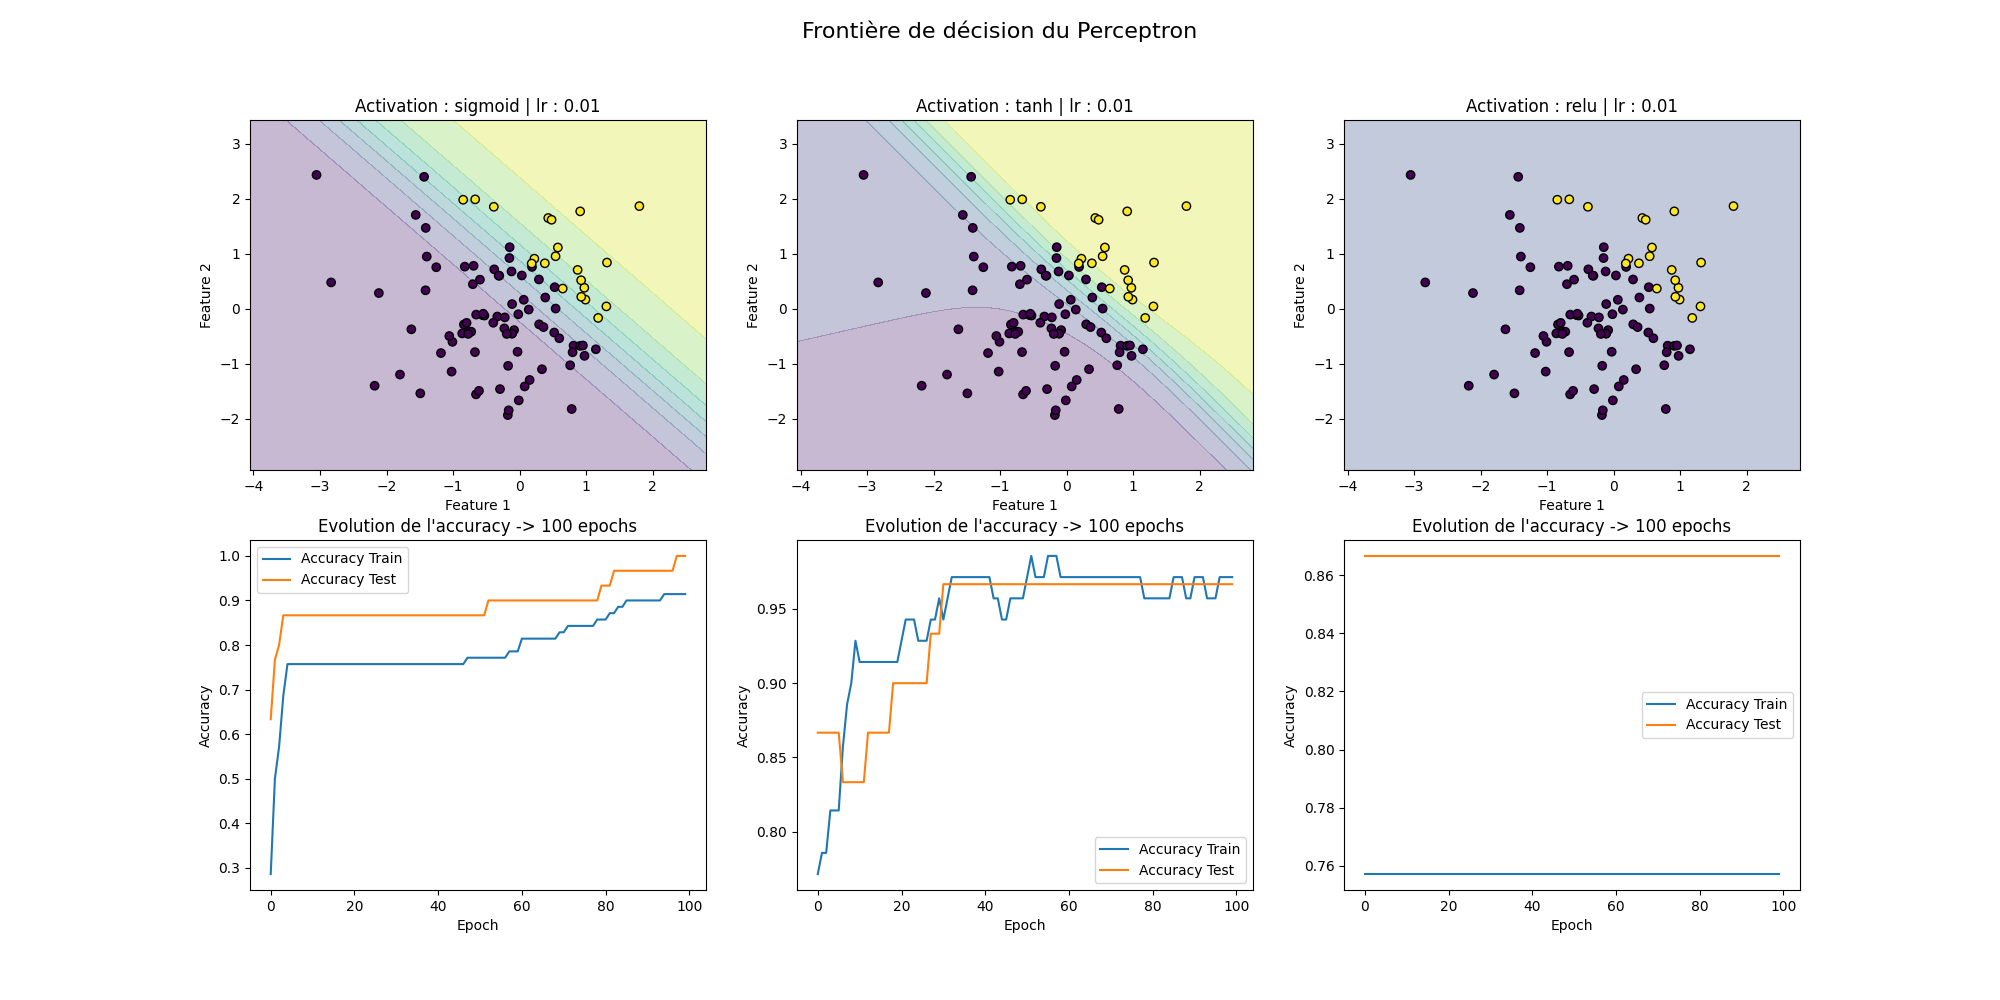
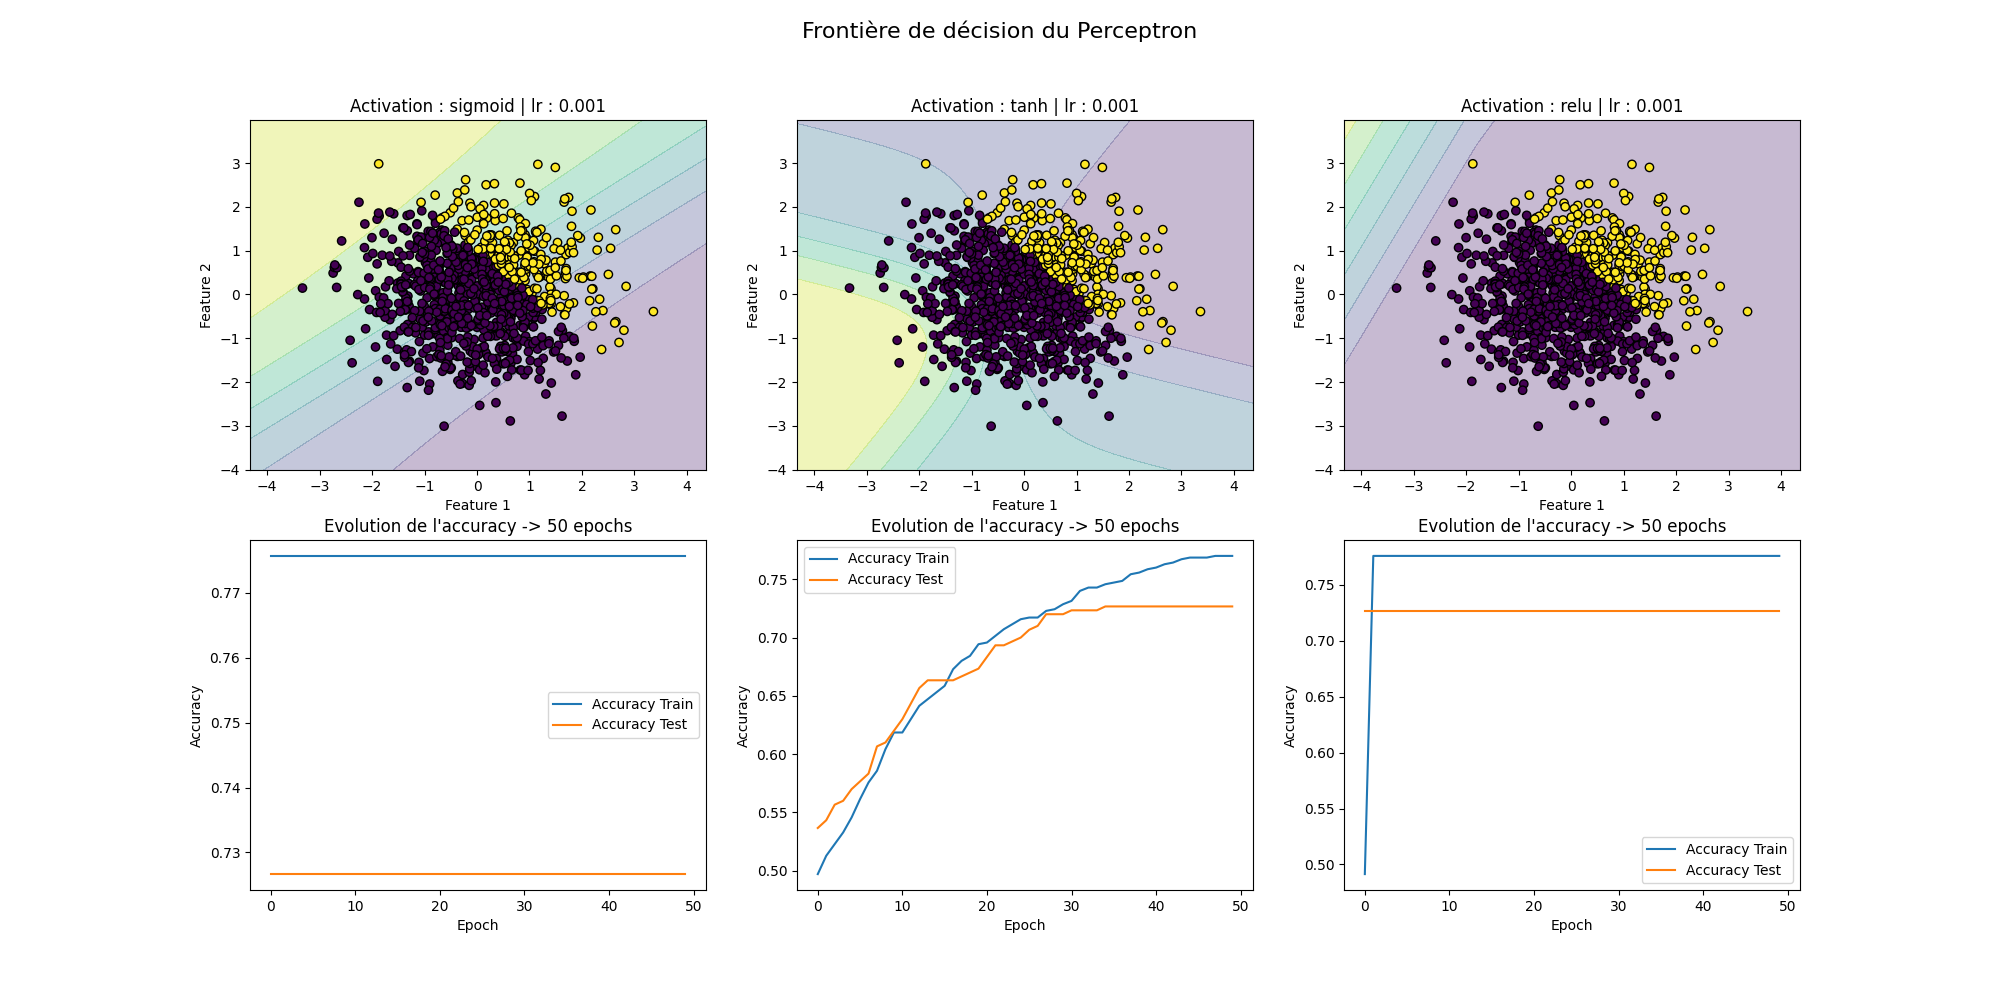
SGD

diff --git a/rendu_6/app.py b/rendu_6/app.py
@@ -8,78 +8,35 @@ from sklearn.model_selection import train_test_split
 import tensorflow as tf
 from tensorflow.keras.layers import Dense
 from tensorflow.keras.models import Sequential
-from tensorflow.keras.optimizers import Adam
+from tensorflow.keras.optimizers import SGD
 
 
 
 
 
-X = np.random.randn(100, 2)
+X = np.random.randn(1000, 2)
 y = np.where(X[:, 1] + X[:, 0] > 1, 1, 0)
 #scaler = StandardScaler()
 #X = scaler.fit_transform(X)
-epochs = 500
-alpha = 0.01
 
-activations = ["step", "sigmoid", "tanh", "relu"]
+activations = ["sigmoid", "tanh", "relu"]
 x_train, x_test, y_train, y_test = train_test_split(X, y, test_size=0.3, random_state=42)
 
 p_seul = per.Perceptron()
 
-fig, axs = plt.subplots(ncols=4, nrows=2, figsize=(20, 10))
-axs = axs.flatten()
-index = 0
-# Perceptron seul
-for a in activations:
-
-    accuracies, test_accuracies = p_seul.fit(x_train, y_train, epochs=epochs, activation=a, alpha=alpha, x_test=x_test, y_test=y_test)
-
-    w1, w2 = p_seul.W
-    b = p_seul.B
-
-    # Affichage graphe Frontiere de decision
-    x1_vals = np.array([X[:, 0].min() - 0.5, X[:, 0].max() + 0.5])
-    x2_vals = -(b + w1 * x1_vals) / w2
-
-    axs[index].scatter(X[y == 0, 0], X[y == 0, 1], color='blue', edgecolor='k', marker='o', s=50, label='Label 0')
-    axs[index].scatter(X[y == 1, 0], X[y == 1, 1], color='red', edgecolor='k', marker='^', s=50, label='Label 1')
-
-    axs[index].plot(x1_vals, x2_vals, 'k--', linewidth=2, label="Frontière de décision")
-    axs[index].set_xlabel("X1")
-    axs[index].set_ylabel("X2")
-    axs[index].legend()
-    axs[index].set_xlim([-3, 3]) 
-    axs[index].set_ylim([-3, 3])
-    axs[index].set_title(f"Activation : {a} | lr : {alpha}")
-
-    # Affichage graphe accuracy
-    axs[index+4].plot(range(len(accuracies)), accuracies, linestyle='-', linewidth=1, label="Train Accuracy")
-    axs[index+4].plot(range(len(test_accuracies)), test_accuracies, linestyle='-', linewidth=1, label="Test Accuracy")
-    axs[index+4].set_xlabel("epochs")
-    axs[index+4].set_ylabel("Accuracy")
-    axs[index+4].set_title(f"Evolution de l'accuracy -> {len(accuracies)} epochs")
-    axs[index+4].legend()
-
-    index += 1
-fig.suptitle("Frontière de décision du Perceptron", fontsize=16)
-plt.savefig("rendu_6/img/perceptron_simple_activations.png", format="png")
-plt.show()
-
-
 fig, axs = plt.subplots(ncols=3, nrows=2, figsize=(20, 10))
 axs = axs.flatten()
 index = 0
-activations = ["sigmoid", "tanh", "relu"]
-epochs = 100
-alpha = 0.01
+
+epochs = 50
+alpha = 0.001
 # Perceptron seul
 for a in activations:
 
     model = Sequential([
-        Dense(1, activation=a, input_shape=(X.shape[1],)),
-        Dense(1, activation=a)
+        Dense(1, activation=a, input_shape=(X.shape[1],))
     ])
-    optimizer = Adam(learning_rate=alpha)
+    optimizer = SGD(learning_rate=alpha)
     model.compile(optimizer=optimizer, loss='binary_crossentropy', metrics=['accuracy'])
 
     historique = model.fit(x_train, y_train, epochs=epochs, validation_data=(x_test, y_test))
@@ -102,7 +59,57 @@ for a in activations:
 
 
     # Affichage graphe accuracy
-    axs[index+3].plot(historique.history['accuracy'], label='Accuracy')
+    axs[index+3].plot(historique.history['accuracy'], label='Accuracy Train')
+    axs[index+3].plot(historique.history['val_accuracy'], label='Accuracy Test')
+    axs[index+3].set_title(f"Evolution de l'accuracy -> {epochs} epochs")
+    axs[index+3].set_xlabel("Epoch")
+    axs[index+3].set_ylabel("Accuracy")
+    axs[index+3].legend()
+
+    index += 1
+fig.suptitle("Frontière de décision du Perceptron", fontsize=16)
+plt.savefig("rendu_6/img/perceptron_simple_activations.png", format="png")
+plt.show()
+
+
+fig, axs = plt.subplots(ncols=3, nrows=2, figsize=(20, 10))
+axs = axs.flatten()
+index = 0
+activations = ["sigmoid", "tanh", "relu"]
+epochs = 50
+alpha = 0.001
+# Perceptron seul
+for a in activations:
+
+    model = Sequential([
+        Dense(1, activation=a, input_shape=(X.shape[1],)),
+        Dense(1, activation=a)
+    ])
+    optimizer = SGD(learning_rate=alpha)
+    model.compile(optimizer=optimizer, loss='binary_crossentropy', metrics=['accuracy'])
+
+    historique = model.fit(x_train, y_train, epochs=epochs, validation_data=(x_test, y_test))
+
+
+    x_min, x_max = X[:, 0].min() - 1, X[:, 0].max() + 1
+    y_min, y_max = X[:, 1].min() - 1, X[:, 1].max() + 1
+    xx, yy = np.meshgrid(np.linspace(x_min, x_max, 100), np.linspace(y_min, y_max, 100))
+    grid_points = np.c_[xx.ravel(), yy.ravel()]
+    Z = model.predict(grid_points)
+    
+    Z = Z.reshape(xx.shape)
+
+    # Affichage de la frontière de décision
+    axs[index].contourf(xx, yy, Z, alpha=0.3)  # Coloration des régions de décision
+    axs[index].scatter(X[:, 0], X[:, 1], c=y, edgecolor='k')  # Points de données réels
+    axs[index].set_xlabel("Feature 1")
+    axs[index].set_ylabel("Feature 2")
+    axs[index].set_title(f"Activation : {a} | lr : {alpha}")
+
+
+    # Affichage graphe accuracy
+    axs[index+3].plot(historique.history['accuracy'], label='Accuracy Train')
+    axs[index+3].plot(historique.history['val_accuracy'], label='Accuracy Test')
     axs[index+3].set_title(f"Evolution de l'accuracy -> {epochs} epochs")
     axs[index+3].set_xlabel("Epoch")
     axs[index+3].set_ylabel("Accuracy")
@@ -117,8 +124,9 @@ fig, axs = plt.subplots(ncols=3, nrows=2, figsize=(20, 10))
 axs = axs.flatten()
 index = 0
 activations = ["sigmoid", "tanh", "relu"]
-epochs = 100
-alpha = 0.01
+
+epochs = 50
+alpha = 0.001
 # Perceptron seul
 for a in activations:
 
@@ -126,7 +134,7 @@ for a in activations:
         Dense(2, activation=a, input_shape=(X.shape[1],)),
         Dense(1, activation=a)
     ])
-    optimizer = Adam(learning_rate=alpha)
+    optimizer = SGD(learning_rate=alpha)
     model.compile(optimizer=optimizer, loss='binary_crossentropy', metrics=['accuracy'])
 
     historique = model.fit(x_train, y_train, epochs=epochs, validation_data=(x_test, y_test))
